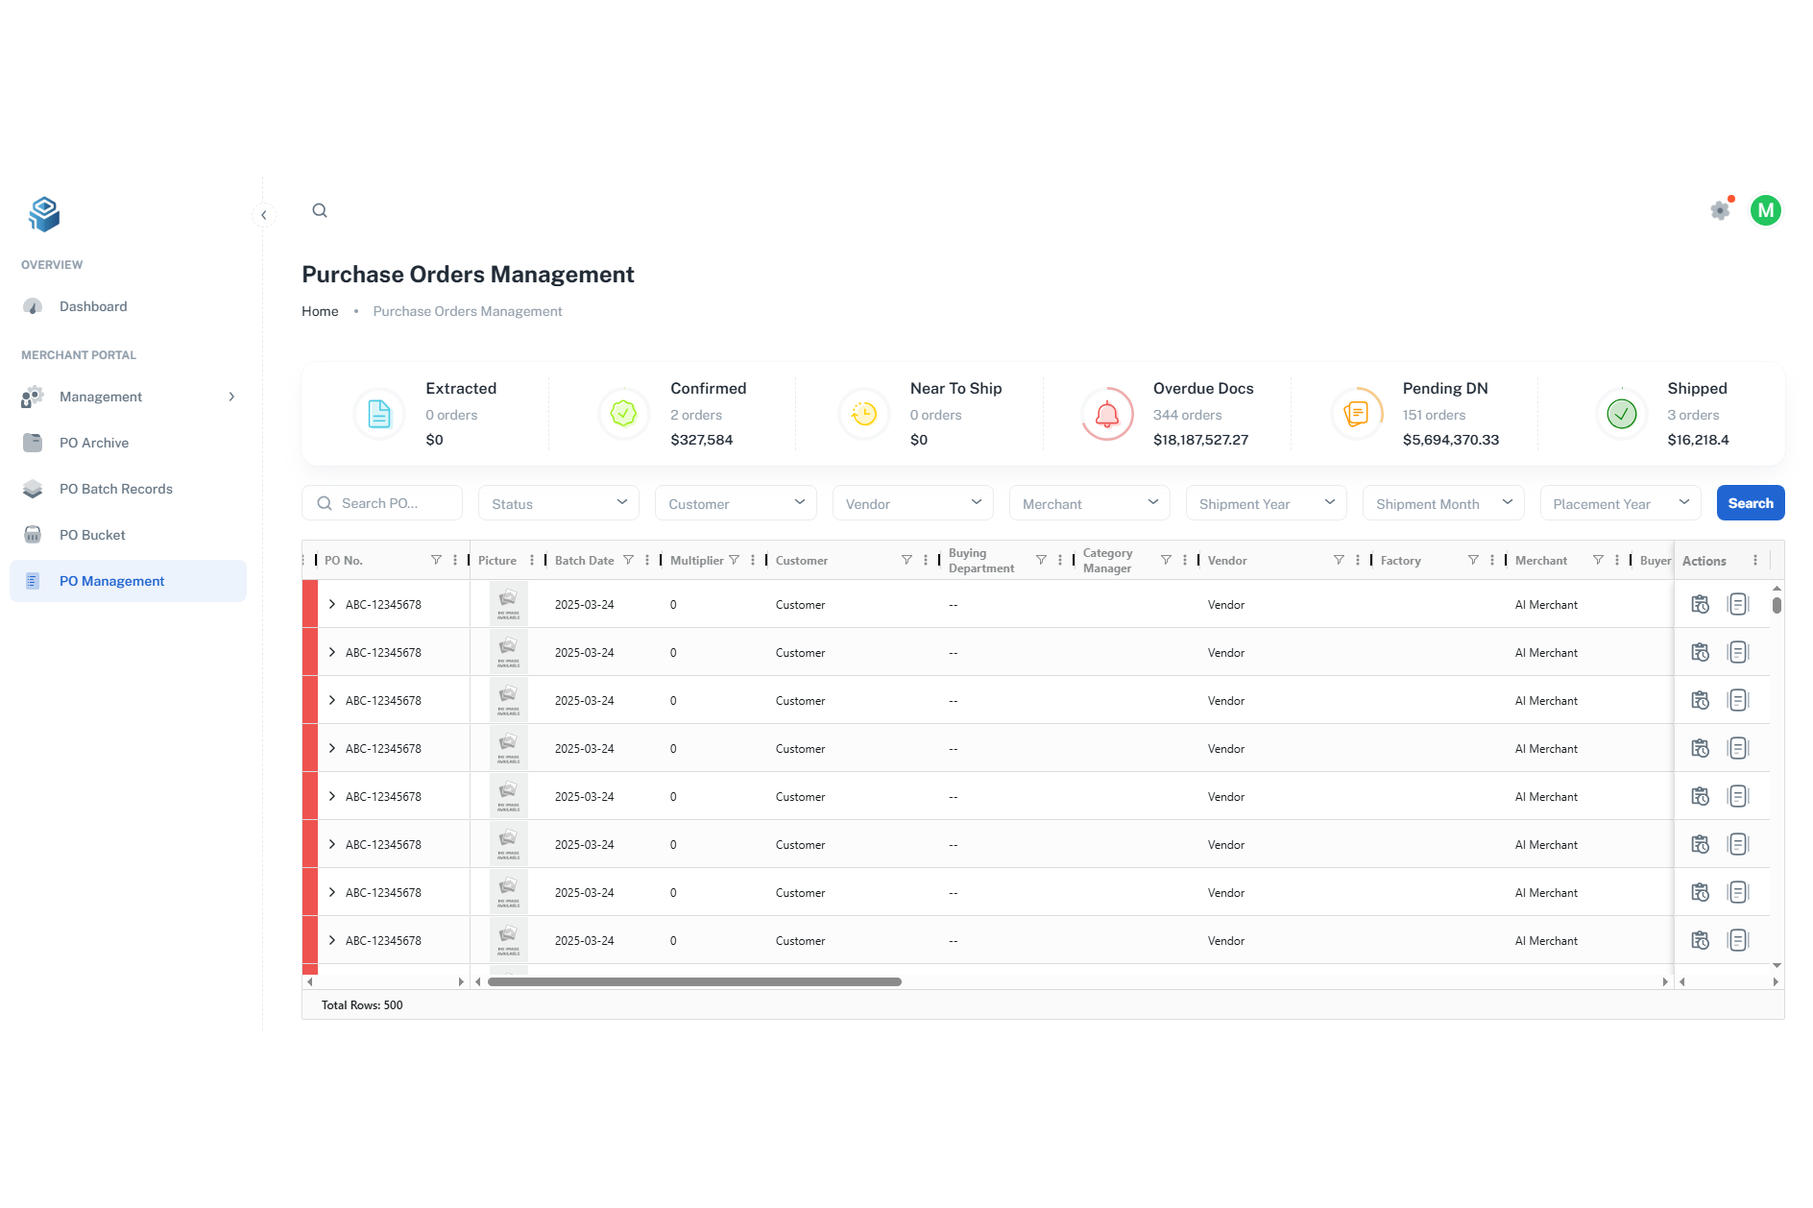
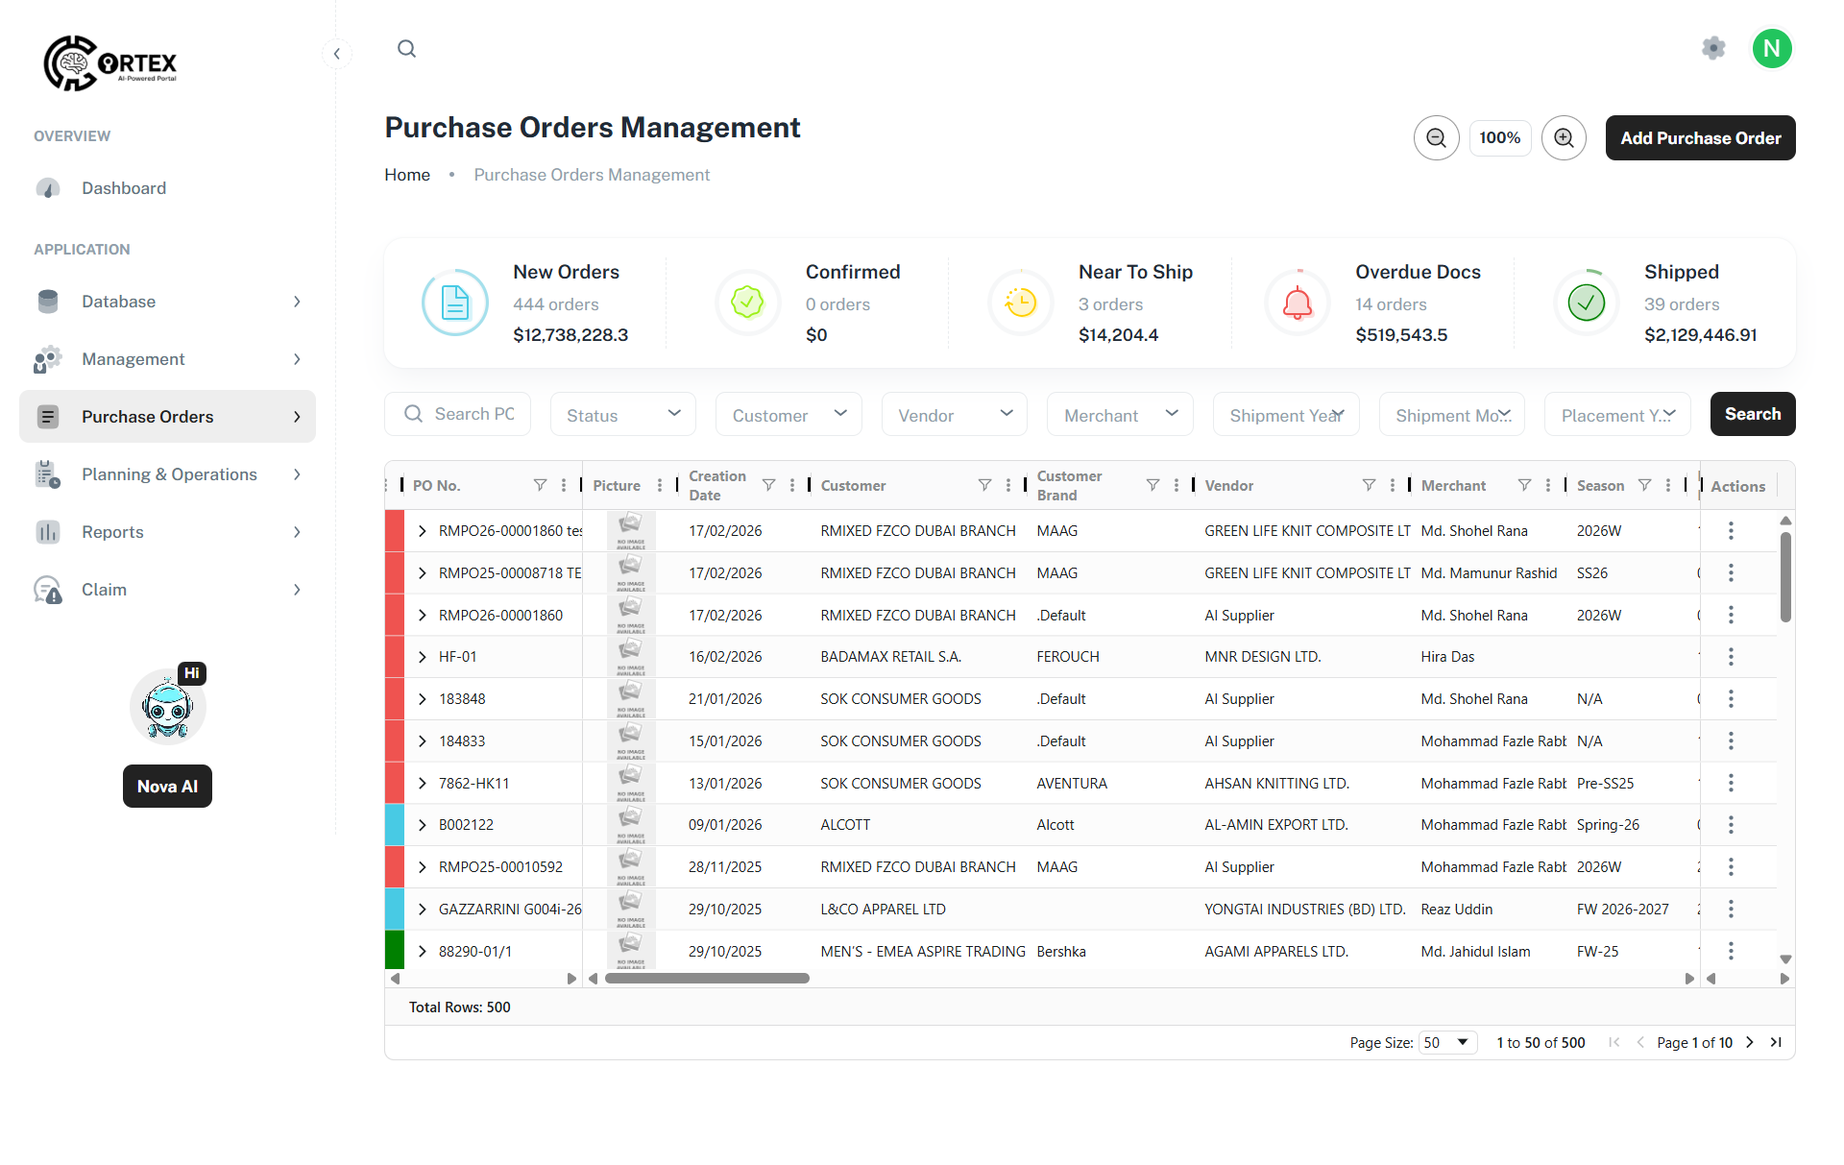
new-projects

diff --git a/static/js/main.0387b6db.js b/static/js/main.0387b6db.js
@@ -14878,7 +14878,7 @@
                     o = r.title,
                     i = r.description,
                     a = r.type,
-                    l = r.langages,
+                    l = r.technologies,
                     u = r.platform,
                     s = r.country,
                     c = r.url;
@@ -14917,7 +14917,7 @@
                                             className: "d-flex",
                                             children: [(0, Be.jsx)("span", {
                                                 className: "col-4 col-lg-3",
-                                                children: "Langages:"
+                                                children: "Technologies:"
                                             }), (0, Be.jsx)("span", {
                                                 children: l
                                             })]
@@ -16078,7 +16078,7 @@
                     })
                 })
             }
-            var mr = JSON.parse('{"rP":{"imgUrl":"/static/media/Code typing-bro.png","name":"Hammad Shahid","heading":"Hi, I\u2019m Hammad","typingText":["Software Engineer",1500,"Building Scalable Apps",1500],"description":"I build ERP and SaaS applications with React and Node.js, focusing on clean architecture, scalable components, and seamless user experiences that solve real business problems.","btnText":"Get in touch","btnUrl":"contactus"},"QH":[{"icon":"fa-brands:github","iconBgClass":"facebook","href":"https://github.com/hammad2914"},{"icon":"fa-brands:linkedin-in","iconBgClass":"linkedin","href":"https://www.linkedin.com/in/hammad-ali-1a4631255"},{"icon":"fa-file-pdf-o","iconBgClass":"pdf","href":"https://hammad-shahid.vercel.app/static/media/Hammad_Resume.pdf"}],"YS":[{}],"jZ":{"imgSrc":"/static/media/hammad.png","miniTitle":"About Me","title":"BUILDING <span>SCALABLE & EFFICIENT</span> WEB APPS","description":"I’m a Software Engineer with 3 years of experience building ERP and SaaS applications using React and Node.js. I focus on clean, component-driven architecture, real-time data integration, and intuitive UI flows that simplify complex business processes.","funfacts":[{"title":"Successful Projects","number":16},{"title":"Years Experience","number":3},{"title":"Core Technologies","number":5}],"btnText":"Get in touch","btnUrl":"contactus"},"q":{"sectionHeading":{"miniTitle":"My Work","title":"RECENT PROJECTS"},"allProjects":[{"thumbUrl":"/static/media/qa-app.png","title":"Synergies Worldwide","subTitle":"Quality Inspection App","details":{"title":"Synergies Worldwide – Quality Inspection App","description":"Developed a React-based Quality Inspection App to eliminate manual reporting and streamline inspections. Implemented detailed dashboards for data analysis, performance reporting, and an in-app email function for seamless collaboration between QA teams and suppliers. <br><br>The app significantly reduced inspection time and improved efficiency.","type":"Progressive Web App","langages":"JavaScript, React, ASP.NET Core, C#, CSS","platform":"Web","url":"Private/Internal","country":"Global"}},{"thumbUrl":"/static/media/vp.png","title":"Oculas Vendor Portal","subTitle":"B2B Supply Chain Management","details":{"title":"Oculas Vendor Portal - AI-Powered B2B Supply Chain Management","description":"Built a React-based AI-driven Vendor Portal where suppliers upload PDF documents for automated data extraction and record-keeping. Upon successful extraction and validation, the system automatically generates commercial invoices and debit notes for the respective orders. <br><br>This eliminated manual data entry and significantly improved accuracy and efficiency in record-keeping.","type":"Progressive Web App","langages":"JavaScript, React, ASP.NET Core, C#, Python","platform":"Web","url":"Private/Internal","country":"China"}},{"thumbUrl":"/static/media/cortex-demo.png","title":"Cortex","subTitle":"AI-Driven ERP Solution","details":{"title":"Cortex – AI-Driven ERP Solution","description":"Developed a React-based AI-powered ERP system that automates purchase order management and bulk PDF extraction. Previously, teams had to manually enter hundreds of POs—now, they can simply upload PDFs in bulk, and the system extracts and auto-enters data instantly. <br><br>Integrated AG Grid for an Excel-like experience, allowing quick edits and seamless data handling. The system also includes real-time dashboards for insightful reporting and business intelligence, streamlining operations and enhancing decision-making.","type":"Progressive Web App","langages":"JavaScript, React, ASP.NET Core, C#, Python","platform":"Web","url":"Private/Internal","country":"Global"}},{"thumbUrl":"/static/media/prog.png","title":"Progressions International","subTitle":"Enterprise Resource Planning System","details":{"title":"Progressions International – ERP System","description":"Revamped an existing ASPX & Bootstrap-based ERP system, rebuilding it in React to enhance performance, usability, and efficiency. The transformation resulted in a faster, more intuitive system with a modern UI and streamlined workflows. <br><br>Upgraded dashboards for better real-time insights, improving decision-making and operational efficiency. The new system significantly reduced processing time and provided a seamless user experience for enterprise-level management.","type":"Progressive Web App","langages":"JavaScript, React, ASP.NET Core, C#, CSS","platform":"Web","url":"Private/Internal","country":"Pakistan"}},{"thumbUrl":"/static/media/hotel-booking.png","title":"Seasons Heritage","subTitle":"Hotel Booking App","details":{"title":"Seasons Heritage – Hotel Booking App","description":"Developed the frontend of a hotel booking platform using React and Tailwind CSS, ensuring a sleek, modern, and fully responsive user interface. Designed an intuitive booking flow that allows users to check real-time room availability and make reservations effortlessly. <br><br>Implemented optimized UI components for fast rendering and smooth navigation, enhancing the overall user experience and performance. The clean and minimalistic design improves usability, making hotel booking simple and efficient for travelers.","type":"Website","langages":"React, HTML, Tailwind CSS, JS","platform":"Web","country":"UAE","url":"hotel-booking-demo.vercel.app"}},{"thumbUrl":"/static/media/gioia.png","title":"Gioia Bakers","subTitle":"E-commerce Bakery Website","details":{"title":"Gioia Bakers – E-commerce Bakery Website","description":"Developed the frontend of an e-commerce platform for a bakery using Next.js and Tailwind CSS, ensuring a fast, SEO-friendly, and highly responsive shopping experience. The website allows customers to explore a variety of baked goods, customize their orders, and place them seamlessly. <br><br>mplemented a custom ordering system with an intuitive UI, making the checkout process smooth and efficient. Optimized for performance and user engagement, the platform enhances the bakery’s online presence and improves customer convenience.","type":"Website","langages":"Next JS, HTML, Tailwind CSS, JS","platform":"Web","country":"USA","url":"demo-cake-store.vercel.app"}}]},"Xn":{"sectionHeading":{"miniTitle":"SERVICES","title":"<span>services</span> I am providing"},"allService":[{"imgUrl":"/static/media/service-01.jpg","title":"Frontend Development","subTitle":"Build modern, scalable web apps using React.js, Material-UI, and Tailwind CSS. Focus on clean architecture, reusable components, and responsive UI for enterprise-grade performance.","icon":"bi:code-square","ratings":4},{"imgUrl":"/static/media/service-02.jpg","title":"Full-Stack Development","subTitle":"Develop full-stack applications with React.js, Node.js, and MongoDB/PostgreSQL. Work across frontend features and backend APIs to deliver secure, structured, and seamless end-to-end functionality.","icon":"bi:layers-fill","ratings":3.5},{"imgUrl":"/static/media/service-03.jpg","title":"API Integration","subTitle":"Integrate RESTful APIs and real-time WebSocket connections across ERP modules — ensuring secure communication, live data updates, and high system reliability.","icon":"bi:diagram-3-fill","ratings":4},{"imgUrl":"/static/media/service-04.jpg","title":"ERP Frontend Systems","subTitle":"Build modular, scalable ERP interfaces using React.js — handling complex user roles, data-heavy workflows, and dynamic components optimized for business operations.","icon":"bi:building","ratings":4}]},"b8":{"sectionHeading":{"miniTitle":"Experience","title":"My Work <span>Experience</span>"},"allExperience":[{"designation":"Software Engineer","company":"Interactive technologies gateway","duration":"MAY 2023 - PRESENT","jobType":"Full time","companyTitle":"My Role & Responsibilities","companyDescription":"As a Software Developer at Interactive Technologies Gateway, I contribute to the development of multiple ERP systems using React.js and Next.js, focusing on scalable architecture and reusable components. My work involves integrating REST APIs and WebSocket-based real-time features, building data-driven interfaces, and collaborating with backend teams to ensure smooth system workflows. I also support the modernization of legacy applications into maintainable web solutions and assist junior developers through guidance and code reviews to maintain overall code quality."},{"designation":"Front-end Developer","company":"Upwork | REMOTE","duration":"Mar 2023 - PRESENT","jobType":"Part time","companyTitle":"My Role & Responsibilities","companyDescription":"As a freelance Frontend Developer on Upwork, I have worked on multiple projects, building dynamic and responsive websites using React.js, Next.js, and Tailwind CSS. My work involves crafting user-friendly interfaces, optimizing performance, and collaborating with clients to deliver high-quality solutions."}]},"bG":{"sectionHeading":{"miniTitle":"","title":""}},"PX":{"sectionHeading":{"title":"Let\u2019s Discuss Your Project","subTitle":"Always available for freelancing if the right project comes along, Feel free to contact me."},"contactImg":"/static/media/hammad.png","contactInfo":[{"title":"Write an e-mail","email":"ch.hammad2914@gmail.com"}]}}');
+           var mr = JSON.parse('{"rP":{"imgUrl":"/static/media/Code typing-bro.png","name":"Hammad Shahid","heading":"Hi, I\u2019m Hammad","typingText":["Software Engineer",1500,"Building Scalable Apps",1500],"description":"I turn complex business requirements into scalable, production-ready software. Building ERP and SaaS platforms with modern full-stack architecture — optimized for performance, security, and long-term maintainability.","btnText":"Get in touch","btnUrl":"contactus"},"QH":[{"icon":"fa-brands:github","iconBgClass":"facebook","href":"https://github.com/hammad2914"},{"icon":"fa-brands:linkedin-in","iconBgClass":"linkedin","href":"https://www.linkedin.com/in/hammad-ali-1a4631255"},{"icon":"fa-file-pdf-o","iconBgClass":"pdf","href":"https://hammad-shahid.vercel.app/static/media/Hammad_Resume.pdf"}],"YS":[{}],"jZ":{"imgSrc":"/static/media/hammad.png","miniTitle":"About Me","title":"BUILDING <span>SCALABLE & EFFICIENT</span> WEB APPS","description":"I’m a Software Engineer with 3 years of experience building ERP, SaaS, and mobile applications using React, React Native, and Node.js. I focus on clean, component-driven architecture, scalable backend systems, real-time data integration, and intuitive UI flows that simplify complex business processes.","funfacts":[{"title":"Successful Projects","number":16},{"title":"Years Experience","number":3},{"title":"Core Technologies","number":5}],"btnText":"Get in touch","btnUrl":"contactus"},"q":{"sectionHeading":{"miniTitle":"My Work","title":"RECENT PROJECTS"},"allProjects":[{"thumbUrl":"/static/media/qa-app.png","title":"Integra","subTitle":"Quality Inspection App","details":{"title":"Integra – Quality Inspection App","description":"Developed a React-based Progressive Web App (PWA) for Quality Inspection that replaced manual reporting with a fully digital, automated workflow. The system can generate inspection reports within seconds, significantly accelerating the reporting process. Built-in approval workflows streamline validation and sign-offs, while detailed KPI dashboards provide real-time insights into inspection performance, defect trends, and team productivity. <br><br>Overall, the solution dramatically reduced inspection time, improved operational efficiency, and enhanced collaboration between QA teams and suppliers.","type":"Progressive Web App","technologies":"JavaScript, React, ASP.NET Core, C#, MUI","platform":"Web"}},{"thumbUrl":"/static/media/vp.png","title":"Oculas Vendor Portal","subTitle":"B2B Supply Chain Management","details":{"title":"Oculas Vendor Portal - AI-Powered B2B Supply Chain Management","description":"Built a React-based AI-driven Vendor Portal where suppliers upload PDF documents for automated data extraction and record-keeping. Upon successful extraction and validation, the system automatically generates commercial invoices and debit notes for the respective orders. <br><br>This eliminated manual data entry and significantly improved accuracy and efficiency in record-keeping.","type":"Progressive Web App","technologies":"JavaScript, React, ASP.NET Core, C#, Python","platform":"Web"}},{"thumbUrl":"/static/media/cortex-demo.png","title":"Cortex","subTitle":"AI-Driven ERP Solution","details":{"title":"Cortex – AI-Driven ERP Solution","description":"Developed an AI-powered ERP system that automates purchase order management and bulk PDF extraction. Previously, teams had to manually enter hundreds of POs—now, they can simply upload PDFs in bulk, and the system extracts and auto-enters data instantly. <br><br>Integrated AG Grid for an Excel-like experience, allowing quick edits and seamless data handling. The system also includes real-time dashboards for insightful reporting and business intelligence, streamlining operations and enhancing decision-making.","type":"Progressive Web App","technologies":"Typescript, React, ASP.NET Core, C#, Python","platform":"Web"}},{"thumbUrl":"/static/media/prog.png","title":"Progressions International","subTitle":"Enterprise Resource Planning System","details":{"title":"Progressions International – ERP System","description":"Revamped an existing ASPX & Bootstrap-based ERP system, rebuilding it with React and Node.js to enhance performance, usability, and efficiency. The transformation resulted in a faster, more intuitive system with a modern UI and streamlined workflows. <br><br>Upgraded dashboards for better real-time insights, improving decision-making and operational efficiency. The new system significantly reduced processing time and provided a seamless user experience for enterprise-level management.","type":"Progressive Web App","technologies":"Typescript, React, Node.js, Express, MUI","platform":"Web"}},{"thumbUrl":"/static/media/hotel-booking.png","title":"Seasons Heritage","subTitle":"Hotel Booking App","details":{"title":"Seasons Heritage – Hotel Booking App","description":"Developed the frontend of a hotel booking platform using React and Tailwind CSS, ensuring a sleek, modern, and fully responsive user interface. Designed an intuitive booking flow that allows users to check real-time room availability and make reservations effortlessly. <br><br>Implemented optimized UI components for fast rendering and smooth navigation, enhancing the overall user experience and performance. The clean and minimalistic design improves usability, making hotel booking simple and efficient for travelers.","type":"Website","technologies":"React, Tailwind CSS, JavaScript, Node.js","platform":"Web"}},{"thumbUrl":"/static/media/gioia.png","title":"Gioia Bakers","subTitle":"E-commerce Bakery Website","details":{"title":"Gioia Bakers – E-commerce Bakery Website","description":"Developed the frontend of an e-commerce platform for a bakery using Next.js and Tailwind CSS, ensuring a fast, SEO-friendly, and highly responsive shopping experience. The website allows customers to explore a variety of baked goods, customize their orders, and place them seamlessly. <br><br>Implemented a custom ordering system with an intuitive UI, making the checkout process smooth and efficient. Optimized for performance and user engagement, the platform enhances the bakery’s online presence and improves customer convenience.","type":"Website","technologies":"Next JS, Tailwind CSS, Typescript","platform":"Web"}},{"thumbUrl":"/static/media/car-rental.jpg","title":"MiCar","subTitle":"Car Rental App","details":{"title":"MiCar – Car Rental App","description":"Developed a cross-platform Car Rental Mobile App using React Native for the frontend and Node.js for the backend, delivering a seamless and scalable rental experience on both iOS and Android.<br><br>The app enables users to browse available vehicles, view detailed car specifications, check real-time availability, and complete secure bookings with integrated payment processing. It also includes user authentication, booking history, push notifications, and in-app support.<br><br>On the backend, built RESTful APIs with Node.js to handle user management, vehicle inventory, reservations, pricing logic, and secure payment transactions. Implemented admin dashboards for fleet management, booking approvals, and performance tracking.","type":"Mobile App","technologies":"React Native, Tailwind CSS, Typescript, Node.js","platform":"Android & IOS"}}]},"Xn":{"sectionHeading":{"miniTitle":"SERVICES","title":"<span>services</span> I am providing"},"allService":[{"imgUrl":"/static/media/service-01.jpg","title":"Frontend Development","subTitle":"Develop modern, scalable, and high-performance web applications using React.js, Next.js, Material-UI, and Tailwind CSS. Emphasize clean architecture, modular and reusable components, and fully responsive UI for enterprise-grade performance.","icon":"bi:code-square","ratings":4},{"imgUrl":"/static/media/service-02.jpg","title":"Full-Stack Development","subTitle":"Develop full-stack applications using MERN and PERN stacks. Work across dynamic frontend features and robust backend APIs to deliver secure, well-structured, and seamless end-to-end functionality for scalable web solutions.","icon":"bi:layers-fill","ratings":3.5},{"imgUrl":"/static/media/service-05.jpg","title":"Mobile App Development","subTitle":"Create high-performance, user-friendly mobile apps using React Native. Focus on seamless cross-platform functionality, secure backend integration, and real-time data synchronization for an exceptional user experience.","icon":"bi:phone","ratings":4},{"imgUrl":"/static/media/service-04.jpg","title":"ERP Systems Development","subTitle":"Build modular, scalable ERP applications — handling complex user roles, data-heavy workflows, and dynamic components. Deliver secure, seamless backend and frontend integration optimized for robust business operations.","icon":"bi:diagram-3-fill","ratings":4}]},"b8":{"sectionHeading":{"miniTitle":"Experience","title":"My Work <span>Experience</span>"},"allExperience":[{"designation":"Software Engineer","company":"Interactive technologies gateway","duration":"MAY 2023 - PRESENT","jobType":"Full time","companyTitle":"My Role & Responsibilities","companyDescription":"As a Software Developer at Interactive Technologies Gateway, I contribute to the development of multiple ERP systems using React.js and Next.js, focusing on scalable architecture and reusable components. My work involves integrating REST APIs and WebSocket-based real-time features, building data-driven interfaces, and collaborating with backend teams to ensure smooth system workflows. I also support the modernization of legacy applications into maintainable web solutions and assist junior developers through guidance and code reviews to maintain overall code quality."},{"designation":"Front-end Developer","company":"Upwork | REMOTE","duration":"Mar 2023 - PRESENT","jobType":"Part time","companyTitle":"My Role & Responsibilities","companyDescription":"As a freelance Frontend Developer on Upwork, I have worked on multiple projects, building dynamic and responsive websites using React.js, Next.js, and Tailwind CSS. My work involves crafting user-friendly interfaces, optimizing performance, and collaborating with clients to deliver high-quality solutions."}]},"bG":{"sectionHeading":{"miniTitle":"","title":""}},"PX":{"sectionHeading":{"title":"Let\u2019s Discuss Your Project","subTitle":"Always available for freelancing if the right project comes along, Feel free to contact me."},"contactImg":"/static/media/hammad.png","contactInfo":[{"title":"Write an e-mail","email":"ch.hammad2914@gmail.com"}]}}');
 
             function vr(e) {
                 var t = e.data,
@@ -16871,7 +16871,7 @@
                         className: "container",
                         children: (0, Be.jsx)("p", {
                             className: "m-0 text-center",
-                            children: "\xa9 2025 copyright all right reserved"
+                            children: "\xa9 2026 copyright all right reserved"
                         })
                     })
                 })
